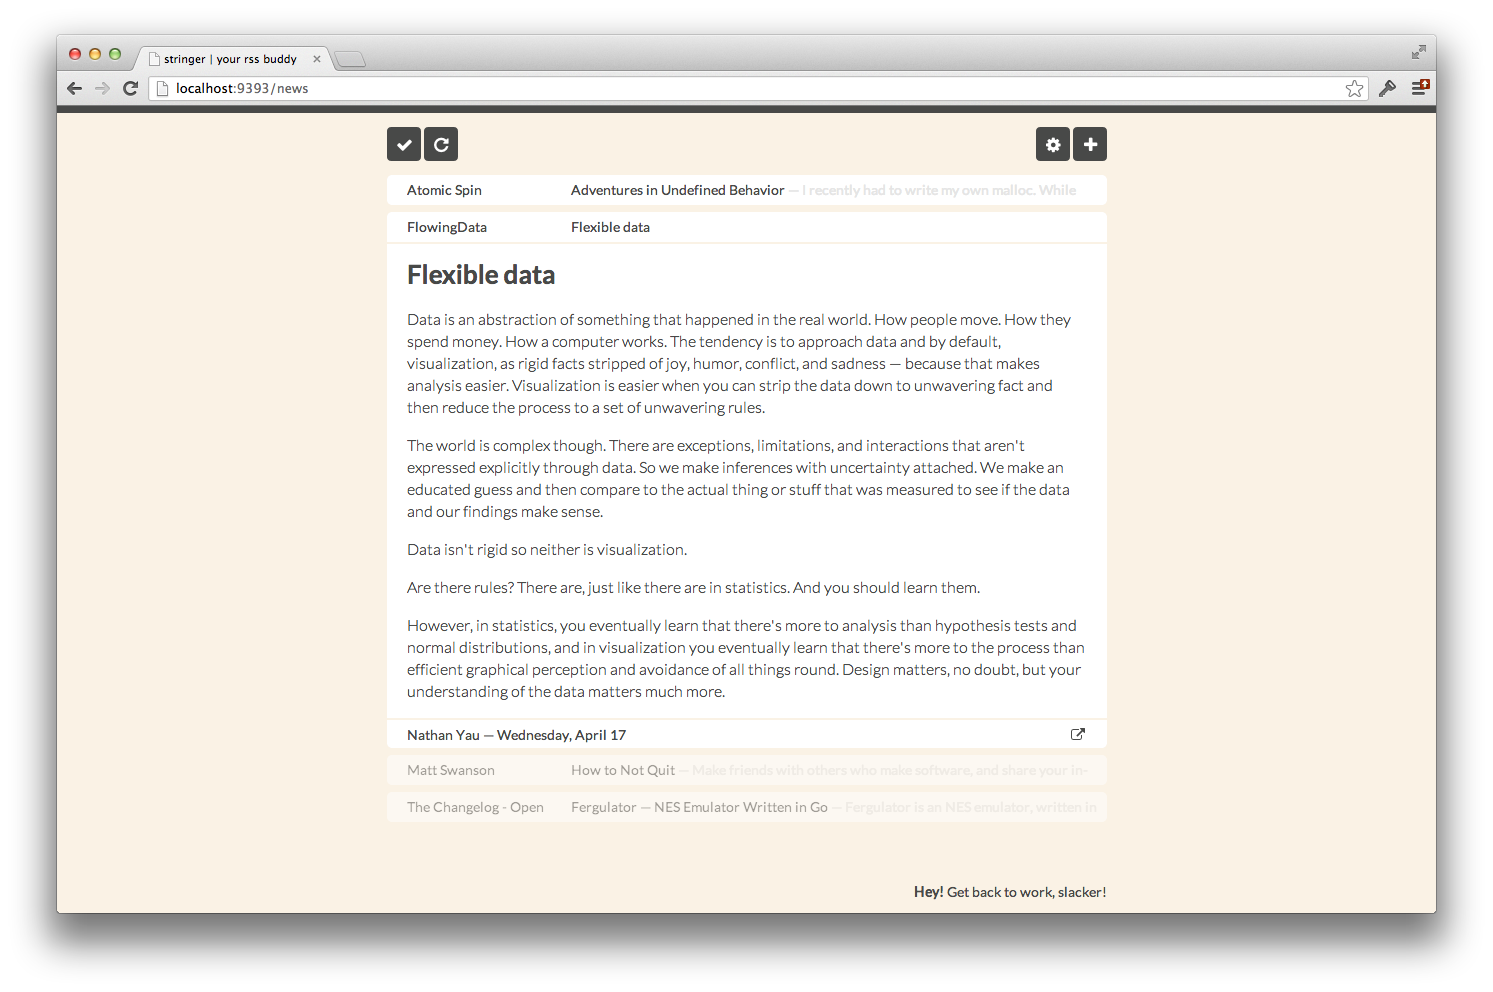
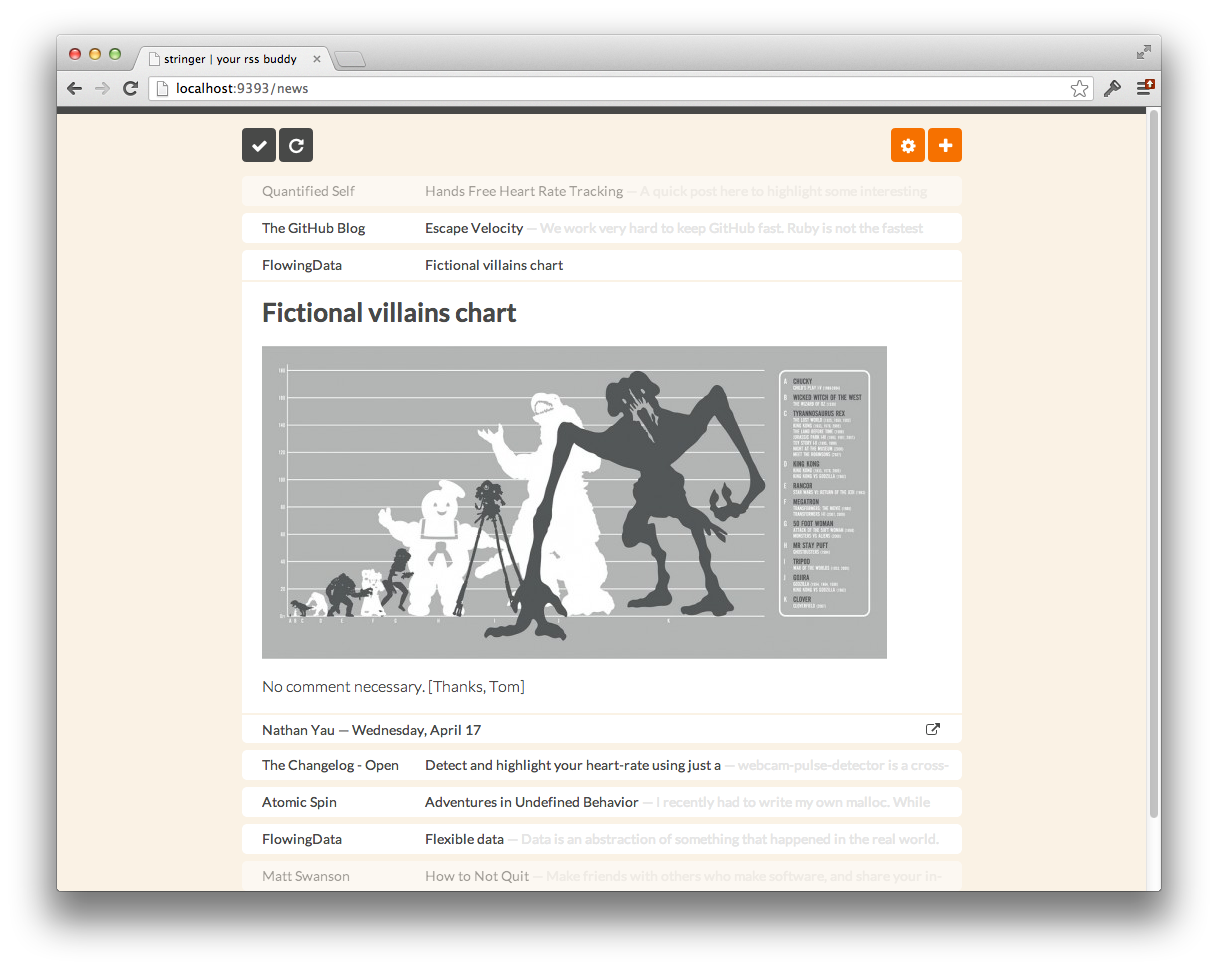
fix screenshot

diff --git a/app/public/css/styles.css b/app/public/css/styles.css
@@ -37,16 +37,16 @@ body {
   background-color: #484948;
 }
 
-.btn:hover, .btn:focus {
-  background-color: #7F8281;
-}
-
-.btn.btn-primary {
+#action-bar .btn-primary {
   background-color: #F67100;
 }
 
-.btn.btn-primary:hover, .btn.btn-primary:focus {
+#action-bar .btn-primary:hover, #action-bar .btn-primary:focus {
   background-color: #F59745;
+}
+
+#action-bar .btn:hover, .btn:focus {
+  background-color: #7F8281;
 }
 
 #action-bar i {

diff --git a/README.md b/README.md
@@ -2,4 +2,4 @@ A work-in-progress, self-hosted, anti-social RSS reader.
 
 It looks something like this at the moment:
 
-![](https://raw.github.com/swanson/stringer/screenshots/feed.png)
+![](https://raw.github.com/swanson/stringer/master/screenshots/feed.png)
